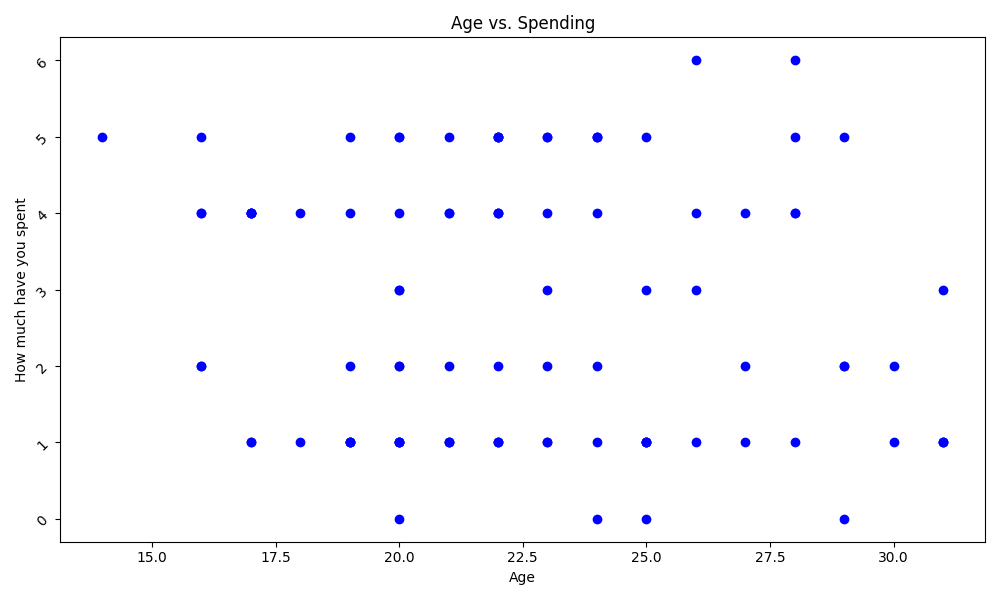
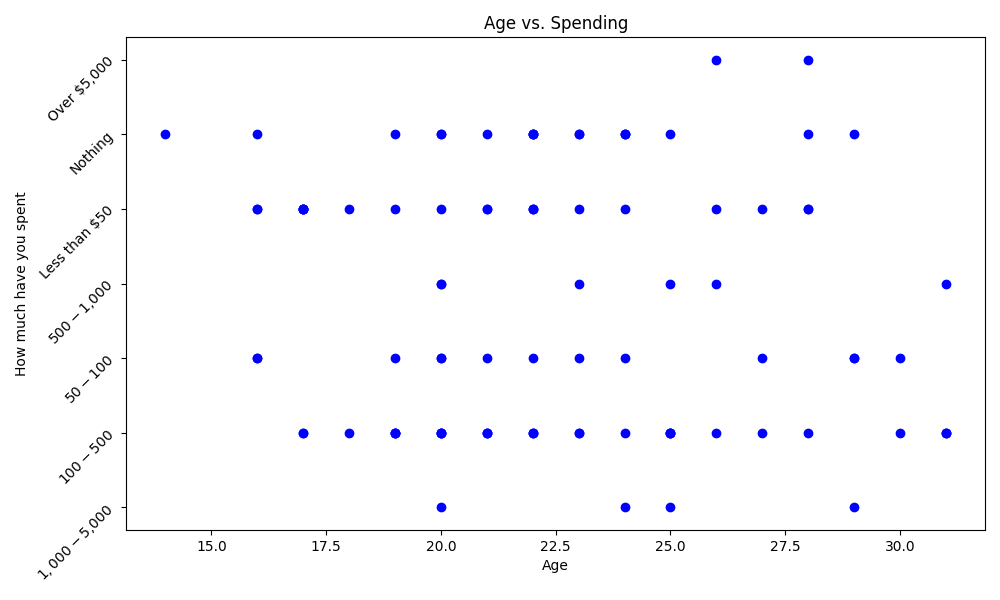
my boy k

diff --git a/KNearestNeighbors.py b/KNearestNeighbors.py
@@ -1,0 +1,47 @@
+# K-NEAREST NEIGHBORS MODEL
+
+import pandas as pan
+from sklearn.model_selection import train_test_split
+from sklearn.preprocessing import LabelEncoder
+from sklearn.neighbors import KNeighborsClassifier
+import matplotlib.pyplot as plt
+from sklearn.preprocessing import OneHotEncoder
+
+frame = pan.read_csv("Genshin Impact Survey Results.csv", skipinitialspace=True)
+frame = frame.dropna(axis=0, inplace=False)
+frame['Gender'] = LabelEncoder().fit_transform(frame['Gender'])
+frame['When did you start playing Genshin Impact'] = LabelEncoder().fit_transform(frame['When did you start playing Genshin Impact'])
+
+# Encode the target variable (spending)
+spending_encoder = LabelEncoder()
+frame['How much have you spent'] = spending_encoder.fit_transform(frame['How much have you spent'])
+spending_labels = spending_encoder.classes_
+
+# Encode the features
+ohe = OneHotEncoder(sparse_output=False, drop='first')
+x = ohe.fit_transform(frame[['When did you start playing Genshin Impact']])
+
+# Define features and target
+x = frame[['When did you start playing Genshin Impact']]
+y = frame['How much have you spent']
+
+# Split
+x_train, x_temp, y_train, y_temp = train_test_split(x, y, test_size=0.3, random_state=42)
+x_val, x_test, y_val, y_test = train_test_split(x_temp, y_temp, test_size=1/3, random_state=42)
+
+# KNN Model Loop
+
+for k in [1, 3, 5, 7, 11, 19, 65]:
+    knn = KNeighborsClassifier(n_neighbors=k)
+    knn.fit(x_train, y_train)
+    score = knn.score(x_train, y_train)
+    print(f"Score for {k} nearest neighbors: {score}")
+
+
+"""
+k = 4
+knn = KNeighborsClassifier(n_neighbors=k)
+knn.fit(x_train, y_train)
+score = knn.score(x_train, y_train)
+print(f"Score for {k} nearest neighbors: {score}")
+"""

diff --git a/LinearRegression.py b/LinearRegression.py
@@ -1,3 +1,5 @@
+# LINEAR REGRESSION MODEL
+
 import pandas as pan
 from sklearn.model_selection import train_test_split
 from sklearn.preprocessing import LabelEncoder
@@ -38,11 +40,18 @@ model.fit(x_train, y_train)
 r_squared = model.score(x_train, y_train)
 print("R^2:", r_squared)
 
-# Create a graph
+# Encode target and save original labels
+spending_encoder = LabelEncoder()
+frame['How much have you spent'] = spending_encoder.fit_transform(frame['How much have you spent'])
+spending_labels = spending_encoder.classes_
 
-plt.scatter(x, y, color='blue')
-
-plt.xlabel("Age")  
-plt.ylabel("How much have you spent (encoded)")
+# Create and save the scatter plot with decoded y-axis labels
+plt.figure(figsize=(10, 6))
+plt.scatter(frame['Age'], frame['How much have you spent'], color='blue')
+plt.xlabel("Age")
+plt.ylabel("How much have you spent")
 plt.title("Age vs. Spending")
-savefig = "age_vs_spending.png"
+plt.yticks(ticks=range(len(spending_labels)), labels=spending_labels, rotation=45)
+plt.tight_layout()
+plt.savefig("age_vs_spending.png")
+plt.show()
